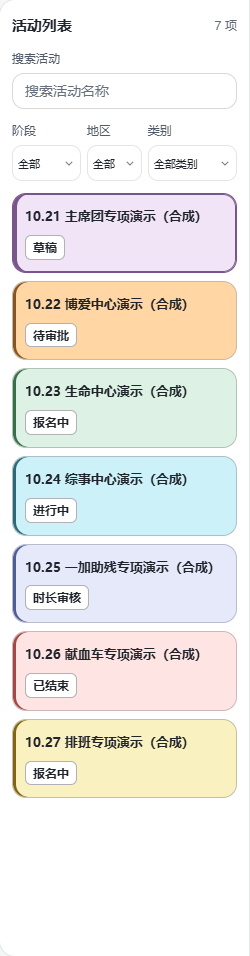
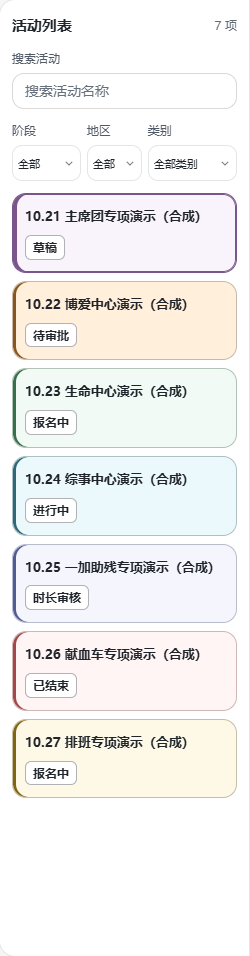
fix(events): correct position counts and soften directory cards

Changed region(s): [[0.056, 0.728, 0.952, 0.8494], [0.056, 0.455, 0.952, 0.5764], [0.056, 0.273, 0.952, 0.3944]]

diff --git a/public/app/console/pages/activity-workspace-page.js b/public/app/console/pages/activity-workspace-page.js
@@ -95,6 +95,7 @@ export default async function activityWorkspacePage(context){
     const projectRows=activityProjects(events.filter(event=>event['状态']!=='已归档')).map(project=>{
       const c=config(project),legacy=activityStage(project);
       const stage=config(project).workspaceSubmission?workspaceStage(project):['approval','ready'].includes(legacy)?'待审批':stageLabel(legacy);
+      const sessions=project.sessions||[project];
       return {
         id:project._id,
         name:project.projectName||project['活动名称'],
@@ -104,14 +105,20 @@ export default async function activityWorkspacePage(context){
         category:canonicalActivityCategory(project['组织类别']||c.center),
         date:project['报名日期'],
         event:project,
-        sessions:project.sessions||[project],
+        // Keep all identities for deep links, but do not count the parent or retired positions.
+        sessions,
+        sessionCount:Array.isArray(c.positionPlan?.positions)?c.positionPlan.positions.length:sessions.filter(session=>!config(session).positionPlan).length,
       };
     });
     return [...drafts.filter(d=>!events.some(e=>e['活动ID']===d.activityId)).map(d=>({id:d.id,name:d.content.name,stage:d.stage,statusLabel:d.stage,region:d.content.region,category:canonicalActivityCategory(d.content.category),date:d.content.date,endDate:d.content.endDate,draft:d})),...projectRows];
   }
   function renderList(){
     const rows=records().filter(r=>(!search.control.value||r.name?.includes(search.control.value))&&(!stage.control.value||r.stage===stage.control.value)&&(!region.control.value||r.region===region.control.value)&&(!category.control.value||r.category===category.control.value));
-    count.textContent=`${rows.length} 项`;list.replaceChildren(...rows.map(row=>h('button',{type:'button',class:'activity-v2-card',data:{record:row.id,region:row.region||'',category:row.category||'',sessions:String(row.sessions?.length||1)},aria:{pressed:String(row.id===selected)},on:{click:()=>openActivity(row)}},h('strong',{text:row.name}),h('span',{class:'activity-v2-card__meta',text:[row.region==='suzhou'?'苏州地区':'南京地区',row.category,row.date].filter(Boolean).join(' · ')}),h('span',{class:'row-between'},h('span',{class:'activity-v2-badge',text:row.stage==='报名中'&&occupancy.get(row.id)?'报名中 · 报名已满':row.statusLabel||row.stage||'未分类'}),row.sessions?.length>1?h('small',{class:'t-caption',text:`${row.sessions.length} 个场次`}):null,h('span',{class:'activity-v2-card__entry','aria-hidden':'true'},'进入活动',icon('chevronRight','ico ico--sm'))))));
+    count.textContent=`${rows.length} 项`;
+    list.replaceChildren(...rows.map(row=>{
+      const sessionCount=row.sessionCount??1;
+      return h('button',{type:'button',class:'activity-v2-card',data:{record:row.id,region:row.region||'',category:row.category||'',sessions:String(sessionCount)},aria:{pressed:String(row.id===selected)},on:{click:()=>openActivity(row)}},h('strong',{text:row.name}),h('span',{class:'activity-v2-card__meta',text:[row.region==='suzhou'?'苏州地区':'南京地区',row.category,row.date].filter(Boolean).join(' · ')}),h('span',{class:'row-between'},h('span',{class:'activity-v2-badge',text:row.stage==='报名中'&&occupancy.get(row.id)?'报名中 · 报名已满':row.statusLabel||row.stage||'未分类'}),sessionCount>1?h('small',{class:'t-caption',text:`${sessionCount} 个场次`}):null,h('span',{class:'activity-v2-card__entry','aria-hidden':'true'},'进入活动',icon('chevronRight','ico ico--sm'))));
+    }));
     if(!rows.length)list.append(emptyState({title:'没有符合条件的活动',description:'调整筛选或新建活动。'}));
   }
   function renderDetail(){

diff --git a/public/styles/activity-workspace.css b/public/styles/activity-workspace.css
@@ -66,9 +66,9 @@
 .activity-registration-table input[type=checkbox]{margin:0;vertical-align:middle}
 .activity-running-evidence-actions{display:flex;gap:6px;align-items:center;flex-wrap:wrap}
 /* Category colours match the public activity plaza; progress stays a separate text badge. */
-.activity-v2-card{border:1px solid color-mix(in srgb,var(--category-label-ink,var(--border)) 30%,var(--border));background:var(--category-label-bg,var(--surface));box-shadow:inset 3px 0 0 var(--category-label-ink,var(--border));gap:8px}
+.activity-v2-card{--activity-card-bg:color-mix(in srgb,var(--category-label-bg,var(--surface)) 40%,var(--surface));border:1px solid color-mix(in srgb,var(--category-label-ink,var(--border)) 30%,var(--border));background:var(--activity-card-bg);box-shadow:inset 3px 0 0 var(--category-label-ink,var(--border));gap:8px}
 .activity-v2-card:hover{border-color:var(--category-label-ink,var(--text-secondary))}
-.activity-v2-card[aria-pressed=true]{border-color:var(--category-label-ink,var(--accent));background:var(--category-label-bg,var(--surface));box-shadow:inset 0 0 0 1px var(--category-label-ink,var(--accent)),inset 4px 0 0 var(--category-label-ink,var(--accent))}
+.activity-v2-card[aria-pressed=true]{border-color:var(--category-label-ink,var(--accent));background:var(--activity-card-bg);box-shadow:inset 0 0 0 1px var(--category-label-ink,var(--accent)),inset 4px 0 0 var(--category-label-ink,var(--accent))}
 .activity-v2-card:focus-visible{outline:2px solid var(--text-primary);outline-offset:2px}
 .activity-v2-card .activity-v2-badge{color:var(--text-primary);background:var(--surface);border:1px solid color-mix(in srgb,var(--text-primary) 35%,transparent);border-radius:6px;font-size:12px;font-weight:700;line-height:1.4;padding:3px 7px}
 

diff --git a/reports/ACTIVITY_LIST_COLORS_2026-10-22.md b/reports/ACTIVITY_LIST_COLORS_2026-10-22.md
@@ -1,22 +1,24 @@
 # 活动列表类别配色与进度标签
 
-基于 `origin/main` 的 `314c1eb03b73a8aea13c6faf6896bb2d0e3050f9`，分支为 `codex/activity-list-colors`。之前的 `codex/activity-draft-inline` 分支保留，未混入本次修改。
+最初基于 `origin/main` 的 `314c1eb03b73a8aea13c6faf6896bb2d0e3050f9`，后续同步至 `f9505e1`，分支为 `codex/activity-list-colors`。之前的 `codex/activity-draft-inline` 分支保留，未混入本次修改。
+
+交付底色为 40% 类别底色与 60% 面板底色混合，桌面／手机预览无横向溢出，文字和边框不变。用户已要求将该版本与岗位数量修复一并更新到 PR #26，截图与说明已同步；尚未部署。
 
 当前结论：Windows 测试权限阻塞已修复，`npm run verify` 完整通过，Node 套件 2411 项通过、0 项失败、0 项跳过。下文保留修复前的问题记录，具体修复见末节。
 
 ## 本轮改动
 
 - 管理端活动卡片的背景和左侧色线表示活动类别，采用当前活动广场实际生效的配色：主席团紫、博爱橙、生命绿、综事青蓝、一加助残淡蓝紫、献血车浅红、排班黄。类别配色与站点主题色分开。
-- 活动广场与管理端共用 `tokens.css` 的类别颜色，原活动广场视觉保持不变。未匹配类别保留中性背景。
+- 活动广场与管理端共用 `tokens.css` 的类别颜色，原活动广场视觉保持不变。根据“再淡一点”的反馈，管理端卡片以 40% 类别底色和 60% 面板底色混合：基础色值保持一致，最终显示底色有意比前端色块更浅。文字、左侧色线、选中边框保持原有清晰度，未匹配类别保留中性背景。
 - 当前选中活动使用更明显的同色边框，键盘聚焦时另有深色轮廓。
 - 进度文字使用加粗、深色文字、浅底和独立边框，保留“草稿”“待审批”“报名中”等原有文案。进度不再另设一套彩色含义，避免与类别混淆。
 - 保留列表宽度、筛选、场次数、滚动及手机端列表／详情切换。
 
-界面改动仅涉及样式；另修复了本地 Windows 测试夹具，并同步测试指南、变更记录和本说明。未修改业务 JavaScript、接口、权限、活动状态判定、依赖或表结构。未向远程业务表写入数据，未发送邮件。
+本说明记录类别样式和 Windows 测试夹具的修复；新增的前端岗位数量修复详见[岗位计数记录](ACTIVITY_DIRECTORY_COUNT_2026-10-22.md)。未修改后端接口、权限、活动状态判定、依赖或表结构，未向远程业务表写入数据，未发送邮件。
 
 ## 验证
 
-- `npm run check:links`：通过，扫描 1018 个模块。
+- `npm run check:links`：通过，新增计数回归后扫描 1019 个模块。
 - `git diff --check`：通过。
 - Edge 桌面／手机相关 Playwright：14 项通过，2 项为仅适用桌面的检查在手机项目中正常跳过。检查活动卡片事实与导航、地区／类别组合筛选、草稿恢复、独立滚动、手机列表返回位置和目录失败重试。
 
@@ -25,7 +27,7 @@
   npx playwright test --config=playwright.edge.config.mjs tests/browser/mobile-activity-workspace.spec.mjs tests/browser/activity-taxonomy.spec.mjs tests/browser/activity-draft-workspace-v2.spec.mjs --grep 'six organization|region, legacy|phone opens|mobile deep links|initial directory|new activity requires|desktop workspace keeps|shared console rail' --reporter=line
   ```
 
-- 额外合成页面检查：7 类活动在管理端与活动广场颜色一致，进度标签加粗且有边框，1440、390、320 像素宽度下无横向溢出，选中项、键盘聚焦和类别筛选正常。已查看桌面和手机截图。
+- 额外合成页面检查：7 类活动的基础配色与活动广场一致。80% 底色版本曾检查 1440、390、320 像素宽度无横向溢出；最终 40% 底色版本另检查桌面与手机布局，文字与进度标签保持不透明、无横向溢出。选中项、键盘聚焦和类别筛选已验证；合成截图已更新为最终效果。
 - **修复前** `npm run verify` 未全部通过：项目检查、lint、权限／身份／资料检查通过；Node 测试 2410 项通过、1 项失败。失败位于 `tests/web-assets.test.mjs:194` 的符号链接隔离测试，Windows 创建符号链接时报 `EPERM`。在受限环境外单独重跑 `node --test tests/web-assets.test.mjs`，仍为 18 项通过、同一项权限错误。当时未跳过此检查或修改系统权限，后续通过兼容夹具解决，见末节。
 - **修复前复测**默认并发的 `npm run verify` 时，另有 `materials-preview.test.mjs` 文件级失败，未提供更具体的错误；单独重跑该文件 16 项全部通过。随后以 `node --test --test-concurrency=4 tests/*.test.mjs` 重跑完整 Node 套件，仍为 2410 项通过、仅上述符号链接权限测试失败。该次文件级失败的原因未确认，未改动物资模块或测试；修复后的完整检查中未再出现。
 - 初次扩大筛选范围时还选中了与本次样式无关的最终时长表测试：Edge 项目名与预览脚本只为 Chromium 预置的活动名称不匹配，桌面／手机各失败 1 项。重新限定本次相关用例后得到上述 14 项通过。未把这两项算作通过，也未修改业务或预览脚本以消除失败。
@@ -58,3 +60,5 @@
 - `npm run check:links`、`git diff --check`：通过。
 
 未修改全量命令、降低并发要求或设置跳过开关。其他系统的文件符号链接分支代码保持原样，本机未执行 Linux 环境验证，仍由跨平台 CI 确认。
+
+底色调淡后再次执行 `npm run verify`：退出码 0，Node 套件仍为 2411 项通过、0 项失败、0 项跳过；`npm run check:links` 和 `git diff --check` 通过。

diff --git a/reports/ACTIVITY_DIRECTORY_COUNT_2026-10-22.md b/reports/ACTIVITY_DIRECTORY_COUNT_2026-10-22.md
@@ -1,0 +1,38 @@
+# 多岗位场次数量显示修复
+
+## 问题与范围
+
+管理端活动目录原先使用分组内全部记录的条数显示场次。一项已生成岗位的活动包含 1 条活动主记录与 N 条岗位记录，因此设置 2 个岗位会显示 3，设置 16 个会显示 17。保留在目录中的历史已移除岗位也可能导致数量进一步偏大。
+
+这是前端展示计数错误；后端同时保存活动主记录与岗位子记录用于审批和流程关联，不能为修复显示而删除其中的记录。
+
+## 改动
+
+- `activity-workspace-page.js` 单独计算用于目录展示的 `sessionCount`：有岗位计划时采用当前计划的岗位数量，无岗位计划时统计实际场次并排除主记录。
+- 场次数文字与卡片的 `data-sessions` 使用同一数量。
+- 保留原始 `sessions` 集合，用于主活动／子岗位链接解析；不改变共享分组模型或其他业务工作区。
+- 不改后端接口、存储、审批、报名数据或权限，不写远程业务表。
+
+## 验证
+
+新增 `tests/browser/activity-directory-count.spec.mjs`，在本地内存预览中模拟主记录与岗位子记录。修复前计数断言失败，修复后 Edge 桌面／手机共 6 项全部通过：
+
+- 分别设置 1、2、16 个岗位，卡片计数与配置一致；单岗位不再显示为 2 场。
+- 多岗位项目存在历史已移除岗位时，仍只显示当前配置数。
+- 无岗位计划的历史双场次活动继续显示 2 个场次。
+- 从子岗位链接进入仍能解析到原活动主页面。
+
+```powershell
+$env:PLAYWRIGHT_PREVIEW_PORT='3123'
+npx playwright test --config=playwright.edge.config.mjs tests/browser/activity-directory-count.spec.mjs --reporter=line
+```
+
+`npm run check:links` 通过（1019 个模块），`git diff --check` 通过。完整 `npm run verify` 退出码为 0，项目检查、ESLint、权限／身份／资料检查和 Node 套件全部通过；Node 测试 2411 项通过、0 项失败、0 项跳过。
+
+## 交付状态
+
+用户已要求将本修复与 40% 底色版本一并更新至 PR #26；CI 和合并状态以 GitHub 为准，尚未部署。回滚本修复只需恢复目录的计数代码及对应回归测试，无数据迁移。
+
+## 合成截图
+
+![配置 16 个岗位，目录显示 16 个场次](activity-directory-count-qa/positions-16-desktop.png)

diff --git a/CHANGELOG.md b/CHANGELOG.md
@@ -2,9 +2,11 @@
 
 ## Unreleased
 
+- 修复管理端多岗位活动数量多算 1 的显示问题：目录按当前岗位配置显示场次数，不再把活动主记录或已移除的历史岗位计入；无岗位计划的历史活动仍按实际场次统计，保留子岗位链接与审批关联，不改后端记录。
+
 - 修复普通 Windows 账号运行 CSS 打包安全测试时创建文件符号链接报 `EPERM`：Windows 夹具改用目录联接，保留真实的链接越界拒绝断言和其他系统的文件符号链接测试，不改生产安全逻辑或系统权限。
 
-- 管理端活动列表与活动广场共用类别配色：卡片浅色底和左侧色线表示活动类别，选中项加强同色边框；进度改为深色加粗、带边框的文字标签，避免与类别颜色混淆。保留筛选、场次数与手机端列表／详情切换，不改活动状态或业务接口。
+- 管理端活动列表与活动广场共用类别配色：卡片以 40% 类别底色和 60% 面板底色混合，降低大面积背景的浓度，左侧色线表示活动类别，选中项加强同色边框；进度改为深色加粗、带边框的文字标签，避免与类别颜色混淆。保留筛选、场次数与手机端列表／详情切换，不改活动状态或业务接口。
 
 - 会员中心志愿时长改为对接「南大红会 志愿服务平台」Base（只读）：按"姓名＋学号"匹配「个人主页（编辑版）」，展示"总志愿时长"与"学年志愿时长"（志愿时长（25-26）），替换原先三个本地入账统计列。平台账号缺学号列时按校园邮箱前缀补齐（自助注册强制前缀＝学号）；匹配不到、外部记录冲突或读取不完整时显示破折号并提示，不编造数值。外部索引按 `PLATFORM_VOLUNTEER_PLATFORM_CACHE_MS`（默认 5 分钟）共享缓存；未配置该只读 Token 时保持空值而不是停服。
 
